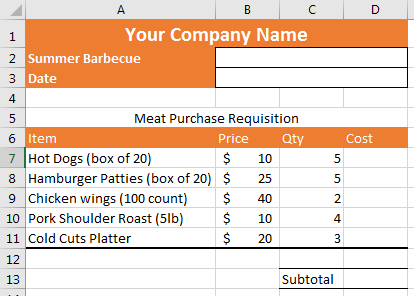
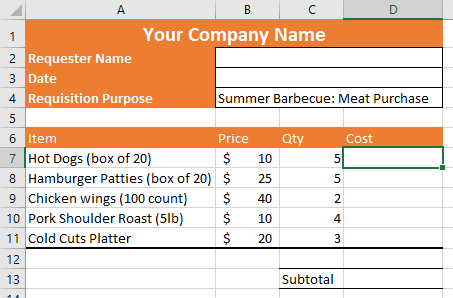
fomrulas tutorial

diff --git a/ch4-spreadsheets/formulas_tutorial.md b/ch4-spreadsheets/formulas_tutorial.md
@@ -1,7 +1,15 @@
-# Forumlas Tutorial
+# Formulas Tutorial
 
 Here is a brief tutorial to walk you through some of the ideas covered in the [previous section](http://itech.erickuha.com/spreadsheets/formulas/). In this scenario, your co-worker brings you a budget spreadsheet showing the meat quantities for a company barbecue. Only problem is, your co-worker does not know how calculate the totals in the spreadsheet. That's where you come in.
 
-1. Download the [start file](res/formulas_start.xlsx). <br /> ![Start File](ch4-spreadsheets/images/formulas/formulas_1.png)
+1. Download the [start file](res/formulas_start.xlsx). <br /> ![Start File](images/formulas/formulas_1.png)
 2. Fill in the information at the top of the screen.
-3. Examine the spreadsheet and see if you can see what formulas might be needed.
+3. Examine the spreadsheet and get a sense of what it's for. Fill in the first empty space with your name and the date with today's date.
+1. Next, we want to fill in rest of the form. Now, we _could_ get out a calculator and do all of these calculations by hand, but we are not going to because that's how mistakes are made. We are going to let Excel do all of the work.
+2. Start by deciding what calculation we need to perform in order to calculate just the cost of the Hot Dogs. The price is $10 for a box and we are ordering 5 boxes. It would be really easy to just put $50 in the Cost column. But instead, in cell `D7` enter the formula `=B7*C7`. Hit **Enter** and observe that the cost is, as we guessed, $50. Notice that Excel even automatically decided on an appropriate number format! <br /> ![first line](images/formulas/formulas_2.png)
+3. For the next line, instead of typing in the formula by hand, try this. Click on cell `D8`. Then press the **equal sign** (=). Now click on cell `B8`, then press the **asterisk key** (\*). Last click on cell `C8` and press **Enter** on the keyboard. You will now see that the result is $125.
+4. Fill in the next three lines of the table in this manner. It should look like this: <br /> ![table done](images/formulas/formulas_3.png)
+1. To calculate the total, we need to add up all of the numbers in the column together. There are easier ways to do this, but for now, simply use the same technique that we've been employing.  Press the **equal sign** (=), and then alternate clicking on each cell and pressing the **plus sign** (+). Your formula will be `=D7+D8+D9+D10+D11`. When you hit **Enter**, the result will be $355.
+2. The completed purchase requisition will look like this: <br /> ![table done](images/formulas/formulas_4.png)
+
+Finally, upload your completed file to the [class portal](http://my.lltc.edu/ics).

diff --git a/ch4-spreadsheets/4-spreadsheets.md b/ch4-spreadsheets/4-spreadsheets.md
@@ -3,14 +3,18 @@
 A spreadsheet is a computer application that is used to organize, analyze, and keep track of tabular data. What does that mean? Well, a lot actually. This is the single most useful piece of software in any productivity suite, and it is easily the most vital to anyone who wants to take their computer-use skills to the next level.
 ## Basics
 
+1. [Basic Ideas](http://itech.erickuha.com/spreadsheets/basics/)
 1. [Getting Started](http://itech.erickuha.com/spreadsheets/getting-started/)
 1. [Creating, Opening, Saving Workbooks](http://itech.erickuha.com/spreadsheets/creating-opening-workbooks/)
 
+## Tutorials
+
+1. [TUTORIAL 1 - Formulas](formulas_tutorial.md)
+
 ## Working with Cells
 1. [Workbooks and Workseets](http://itech.erickuha.com/spreadsheets/workbooks-and-worksheets/)
-1. [Basic Ideas](http://itech.erickuha.com/spreadsheets/basics/)
 1. [Rows and Columns](http://itech.erickuha.com/spreadsheets/rows-and-columns/)
-1. [Baic Formatting](http://itech.erickuha.com/spreadsheets/basic-formatting/)
+1. [Basic Formatting](http://itech.erickuha.com/spreadsheets/basic-formatting/)
 1. [Number Formatting](http://itech.erickuha.com/spreadsheets/number-formats/)
 
 ## Formulas and Functions

diff --git a/SUMMARY.md b/SUMMARY.md
@@ -10,6 +10,7 @@
   * [2.2 - Creating Word Documents](ch2-word-processing\2-1_creating_opening_documents.md)
 * [3 - Presentation software](ch3-presentation/3-presentation.md)
 * [4 - Spreadsheets](ch4-spreadsheets/4-spreadsheets.md)
+    * [TUTORIAL 1 - Formulas](ch4-spreadsheets/formulas_tutorial.md)
 * [5 - Databases](ch5-databases/5-databases.md)
   * [5.1 - Getting Started](ch5-databases/5-1-getting-started.md)
   * [5.2 - What is a Database?](ch5-databases/5-2-elements.md)
